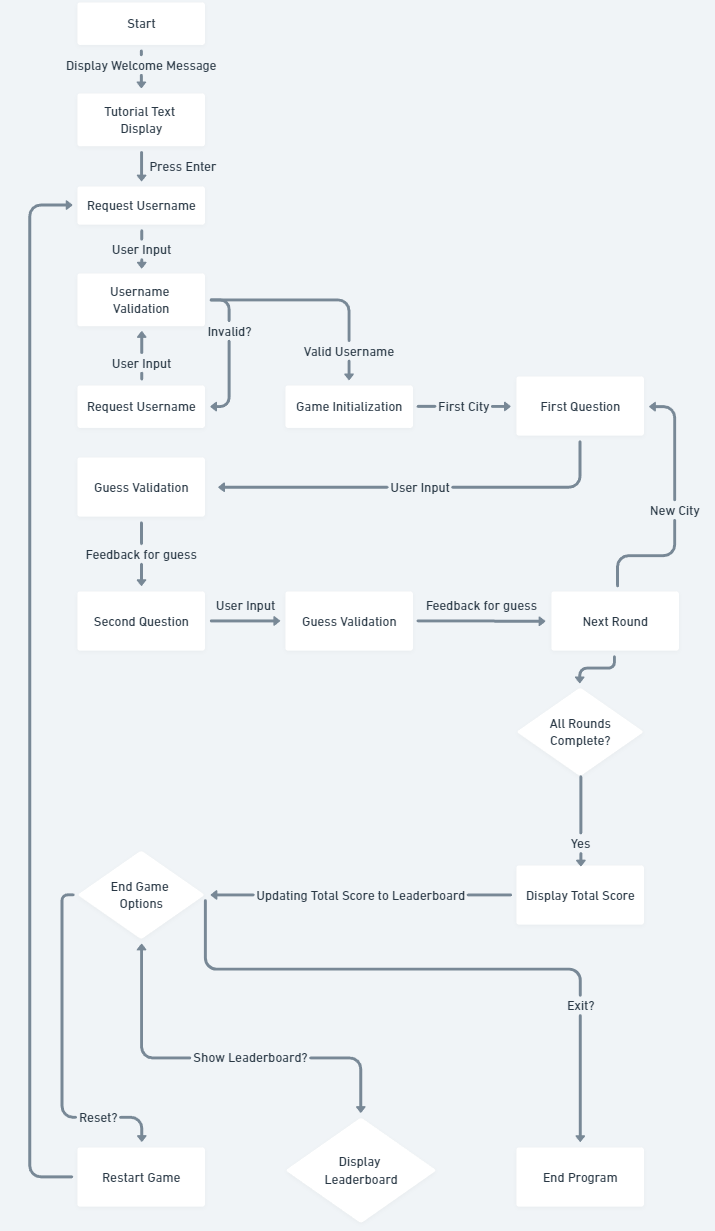
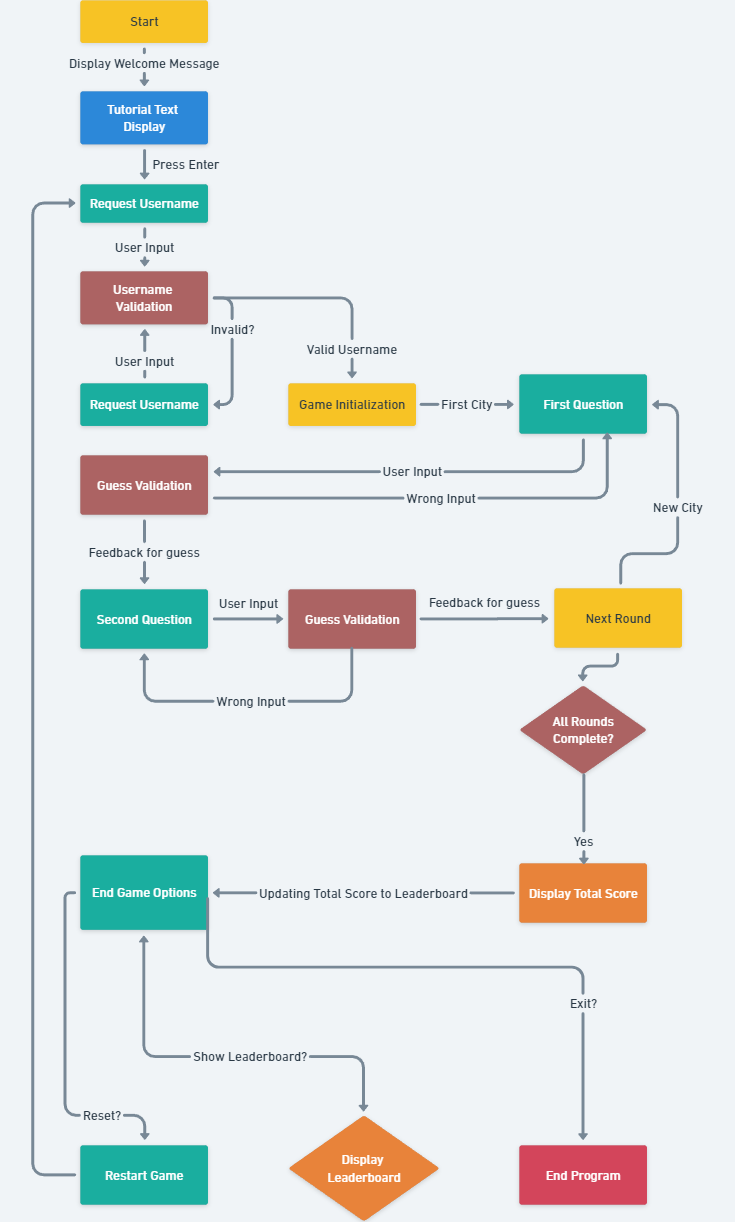
edit last part - programm flowchart on readme.md

Changed region(s): [[0.0308, 0.0, 0.9846, 0.9951], [0.4, 0.8707, 0.5846, 1.0]]

diff --git a/README.md b/README.md
@@ -154,7 +154,83 @@ Alex is a tech-savvy software developer who enjoys coding, gaming, and solving p
 
 ### Program Flowchart
 # Screenshot
-![Programm Flowchart]()
+![Programm Flowchart](/assets/readmescreenshots/programmflowchartguessweather.png)
+
+The flowchart provides a detailed visualization of the user journey through the Guess Weather App. Here's a step-by-step explanation of the flow, along with the significance of the color codes used:
+
+**Start (Yellow)**
+
+-   The app begins by displaying a welcome message to the user.
+
+**Tutorial Text Display (Blue)**
+
+- A brief tutorial is shown to guide the user on how to play the game.
+- The user presses Enter to proceed.
+
+**Request Username (Green)**
+
+- The app prompts the user to enter a username.
+
+**Username Validation (Red)**
+
+- The entered username is checked for validity.
+- If invalid, the user is prompted again.
+
+**Game Initialization (Yellow)**
+
+- Upon valid username entry, the game initializes and selects the first city.
+
+**First Question (Green)**
+
+- The user is asked to guess the weather for the first city.
+
+**Guess Validation (Red)**
+
+- The user's guess is validated and feedback is provided.
+- If incorrect, the user is asked to guess again.
+
+**Second Question (Green)**
+
+- The next weather question is presented, and the process of guessing and validation continues.
+
+**Next Round (Yellow)**
+
+- The game proceeds to the next round with a new city and question.
+
+**All Rounds Complete? (Red)**
+
+- The app checks if all rounds are complete.
+
+**Display Total Score (Orange)**
+
+- If all rounds are complete, the total score is displayed.
+
+**End Game Options (Green)**
+
+- The user is given options to restart the game, view the leaderboard, or exit.
+
+**Display Leaderboard (Orange)**
+
+- If the user chooses, the leaderboard is displayed showing rankings.
+
+**End Program (Pink)**
+
+- If the user opts to exit, the program ends.
+
+**Restart Game (Green)**
+
+- If the user chooses to restart, the game reinitializes from the beginning.
+
+
+**Color Code Significance:**
+
+- Yellow: Steps that involve initialization and significant transitions.
+- Blue: Informational displays such as tutorials.
+- Green: User input stages and core game interaction steps like questions and answers.
+- Pink: Show the termination steps.
+- Red: Validation process and decision points that direct the flow based on game completion.
+- Orange: Display scores and leaderboards.
+
 
 ## Technologies Used: 
 -   **Python:** For backend logic and API interactions.
